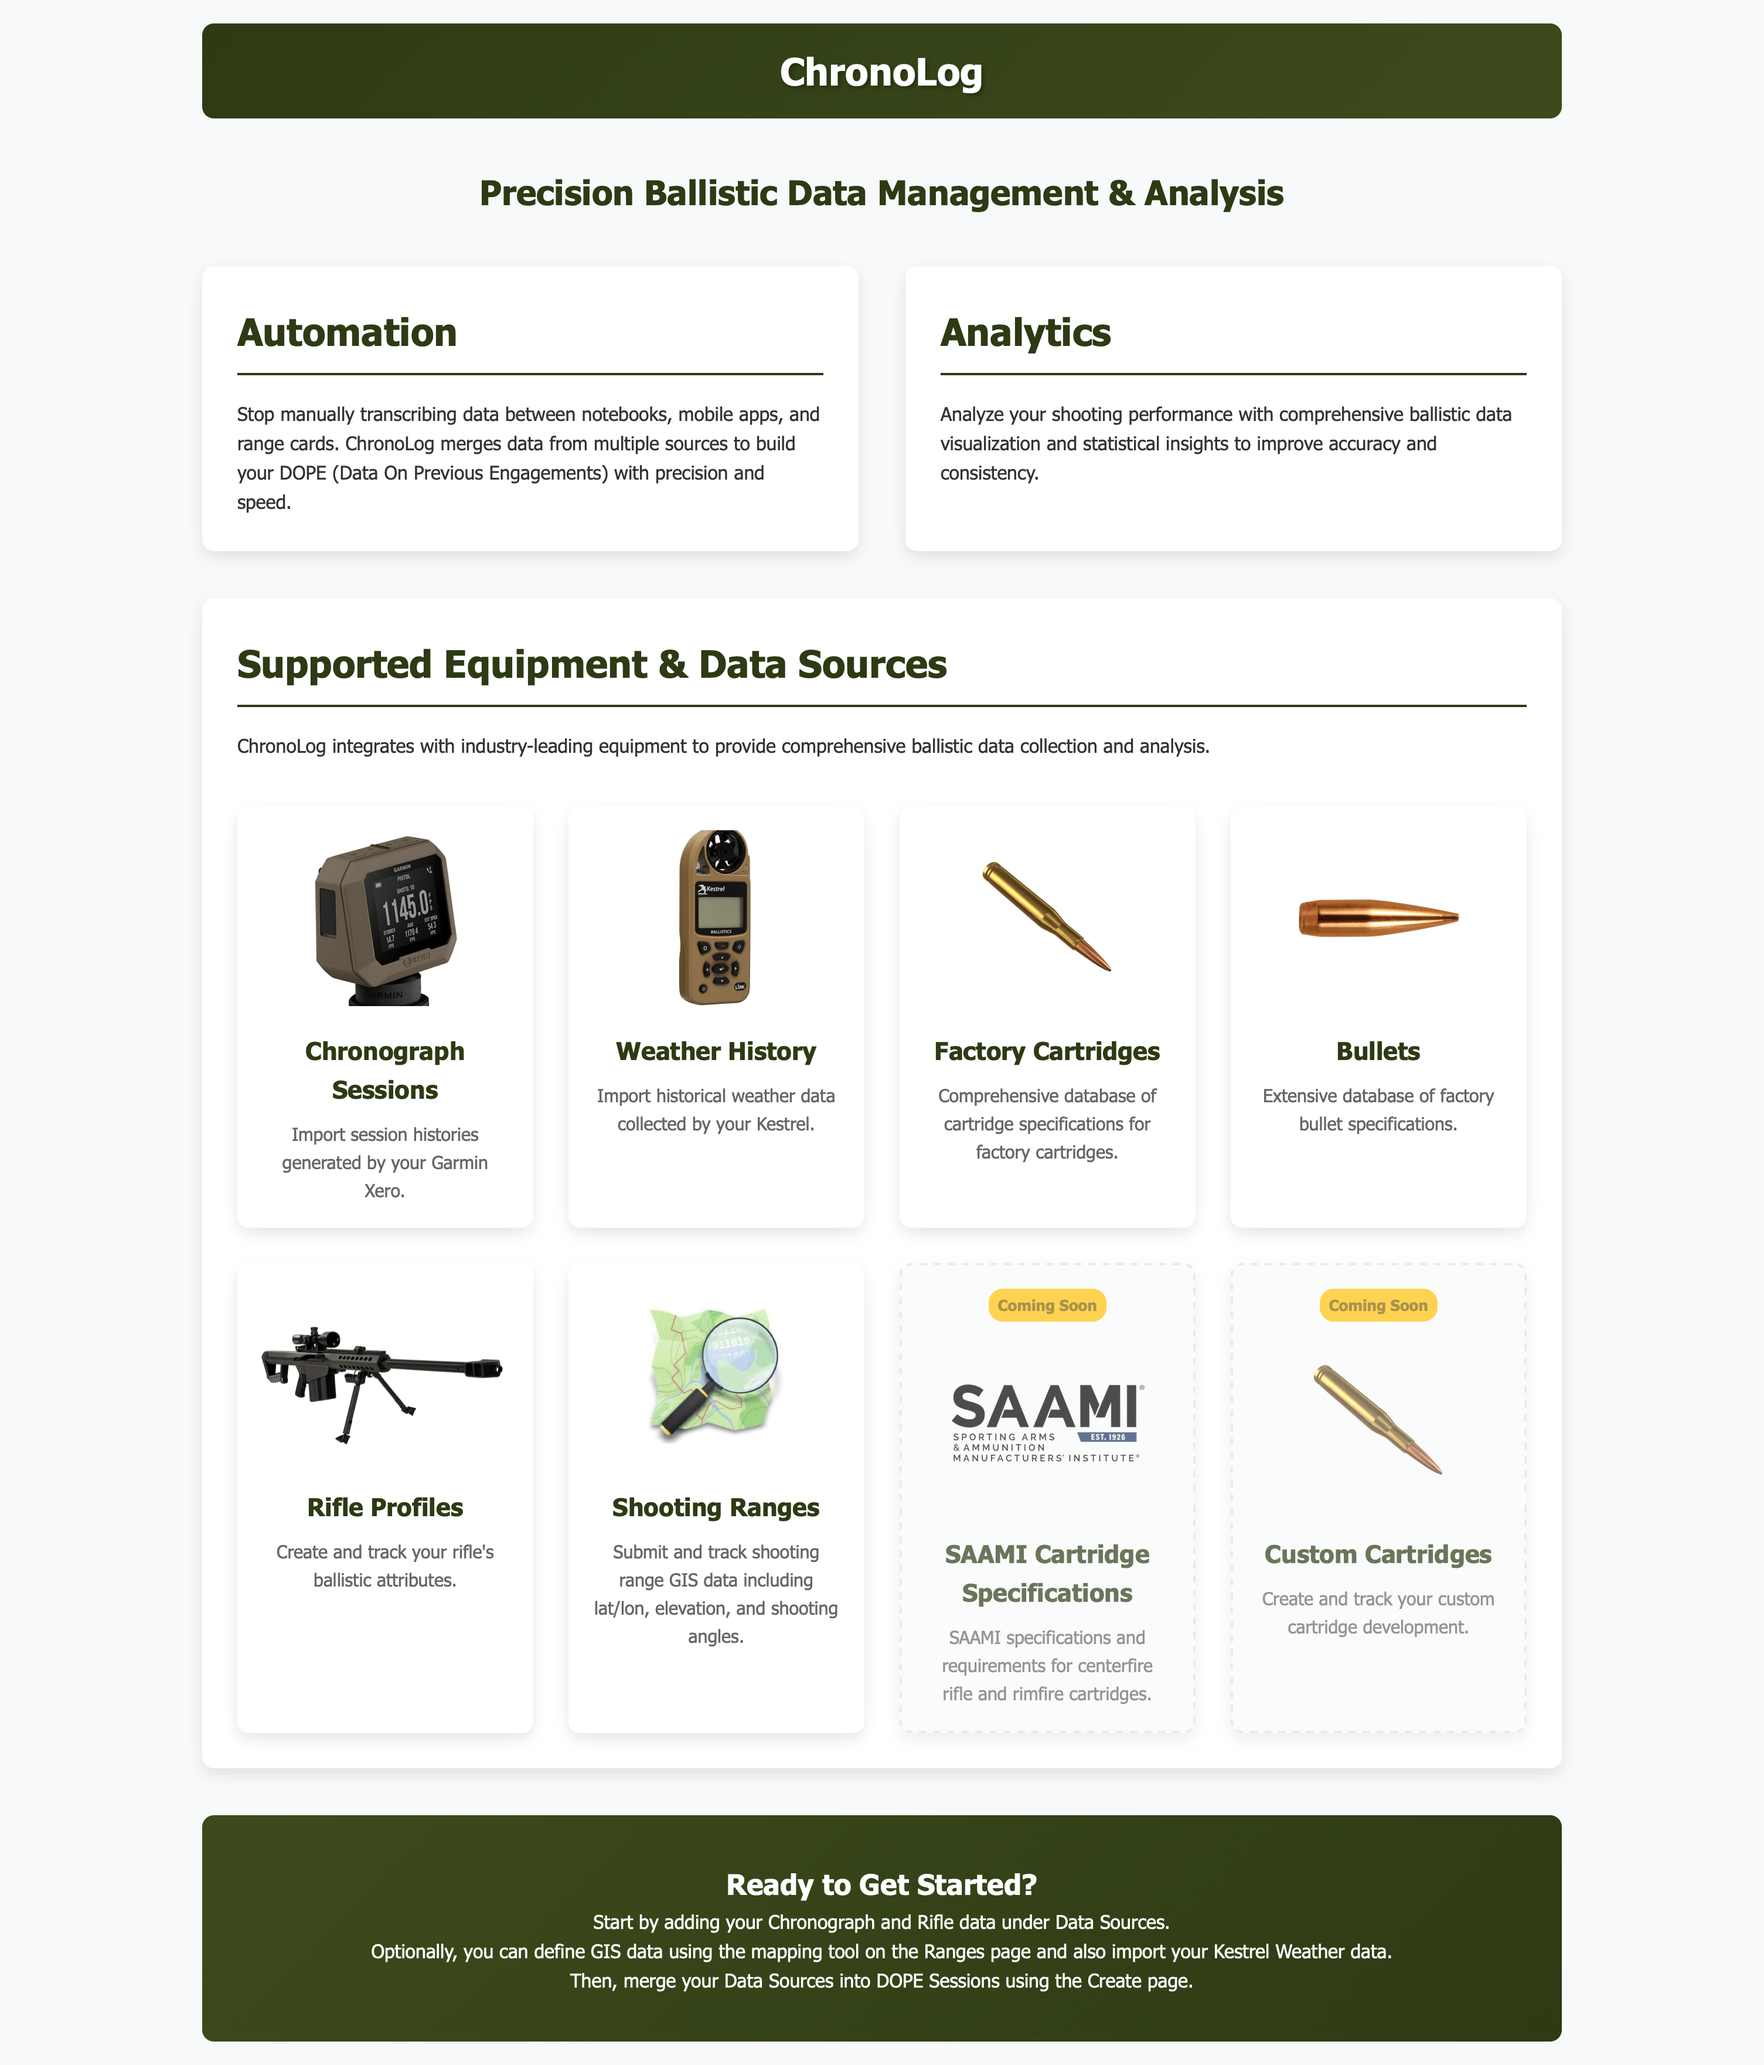
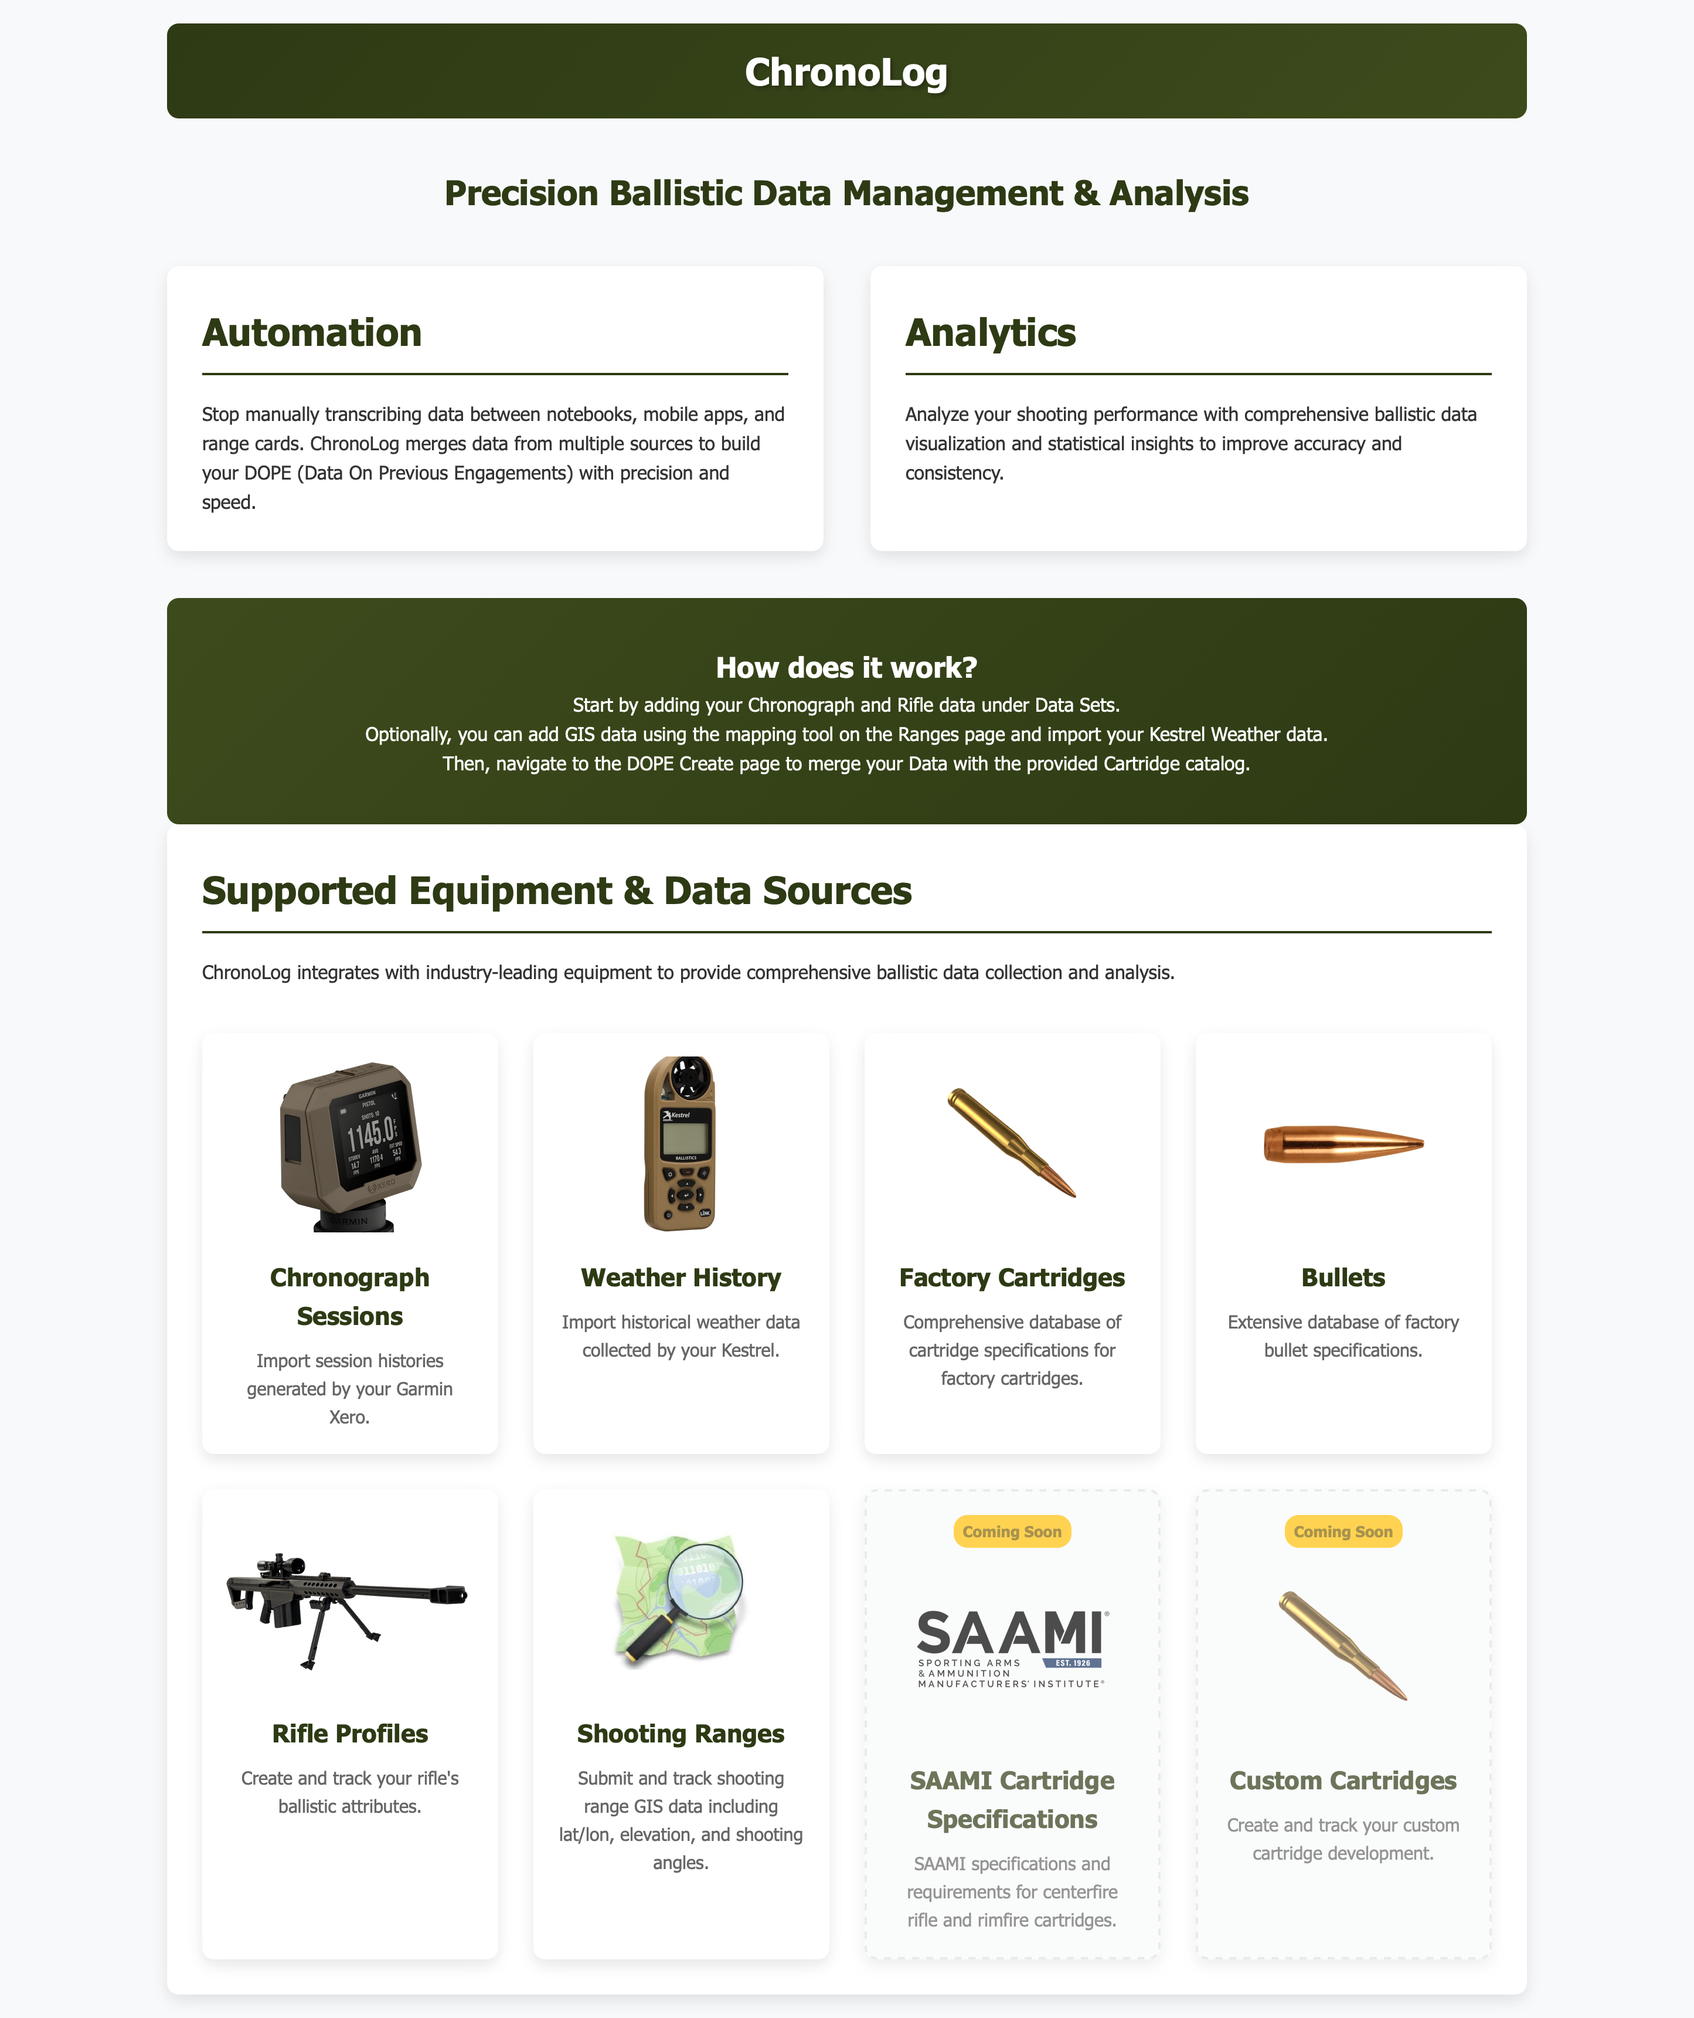
overview page

diff --git a/home/resources/getting_started.html b/home/resources/getting_started.html
@@ -219,93 +219,99 @@
     </style>
 </head>
 <body>
-    <div class="container">
-        <header>
-            <div></div> <!-- Left spacer -->
-            <h1>ChronoLog</h1>
-<!--            <a href="https://chronolog.streamlit.app" class="header-launch">Launch App</a>-->
-        </header>
-        
-        <div class="tagline-section">
-            <h2 class="tagline">Precision Ballistic Data Management & Analysis</h2>
-        </div>
-        
-        <div class="content-grid">
-            <div class="section">
-                <h2>Automation</h2>
-                <p>Stop manually transcribing data between notebooks, mobile apps, and range cards. ChronoLog merges data from multiple sources to build your DOPE (Data On Previous Engagements) with precision and speed.</p>
-            </div>
-            
-            <div class="section">
-                <h2>Analytics</h2>
-                <p>Analyze your shooting performance with comprehensive ballistic data visualization and statistical insights to improve accuracy and consistency.</p>
-            </div>
+<div class="container">
+    <header>
+        <div></div> <!-- Left spacer -->
+        <h1>ChronoLog</h1>
+        <!--            <a href="https://chronolog.streamlit.app" class="header-launch">Launch App</a>-->
+    </header>
+
+    <div class="tagline-section">
+        <h2 class="tagline">Precision Ballistic Data Management & Analysis</h2>
+    </div>
+
+    <div class="content-grid">
+        <div class="section">
+            <h2>Automation</h2>
+            <p>Stop manually transcribing data between notebooks, mobile apps, and range cards. ChronoLog merges data
+                from multiple sources to build your DOPE (Data On Previous Engagements) with precision and speed.</p>
         </div>
 
         <div class="section">
-            <h2>Supported Equipment & Data Sources</h2>
-            <p>ChronoLog integrates with industry-leading equipment to provide comprehensive ballistic data collection and analysis.</p>
-            
-            <div class="resources-grid">
-                <div class="resource-card">
-                    <img src="./garmin_xero.png" alt="Garmin Xero Chronograph">
-                    <h3>Chronograph Sessions</h3>
-                    <p>Import session histories generated by your Garmin Xero.</p>
-                </div>
-                
-                <div class="resource-card">
-                    <img src="./kestrel.png" alt="Kestrel Weather Meter">
-                    <h3>Weather History</h3>
-                    <p>Import historical weather data collected by your Kestrel.</p>
-                </div>
-
-                <div class="resource-card">
-                    <img src="./cartridge.png" alt="Factory Cartridge">
-                    <h3>Factory Cartridges</h3>
-                    <p>Comprehensive database of cartridge specifications for factory cartridges.</p>
-                </div>
-
-                <div class="resource-card">
-                    <img src="./bullets.png" alt="Bullet">
-                    <h3>Bullets</h3>
-                    <p>Extensive database of factory bullet specifications.</p>
-                </div>
-
-                <div class="resource-card">
-                    <img src="./rifle.png" alt="Rifle Configuration">
-                    <h3>Rifle Profiles</h3>
-                    <p>Create and track your rifle's ballistic attributes.</p>
-                </div>
-
-                <div class="resource-card">
-                    <img src="./gis.jpg" alt="Shooting Range">
-                    <h3>Shooting Ranges</h3>
-                    <p>Submit and track shooting range GIS data including lat/lon, elevation, and shooting angles.</p>
-                </div>
-
-                <div class="resource-card coming-soon">
-                    <div class="coming-soon-badge">Coming Soon</div>
-                    <img src="./saami.png" alt="SAAMI Cartridge Specifications">
-                    <h3>SAAMI Cartridge Specifications</h3>
-                    <p>SAAMI specifications and requirements for centerfire rifle and rimfire cartridges.</p>
-                </div>
-
-                <div class="resource-card coming-soon">
-                    <div class="coming-soon-badge">Coming Soon</div>
-                    <img src="./cartridge.png" alt="Custom Cartridge">
-                    <h3>Custom Cartridges</h3>
-                    <p>Create and track your custom cartridge development.</p>
-                </div>
-
-            </div>
-        </div>
-        
-        <div class="cta-section">
-            <h2>Ready to Get Started?</h2>
-            <p>Start by adding your Chronograph and Rifle data under Data Sources.</p>
-             <p> Optionally, you can define GIS data using the mapping tool on the Ranges page and also import your Kestrel Weather data.</p>
-            <p>Then, merge your Data Sources into DOPE Sessions using the Create page.</p>
+            <h2>Analytics</h2>
+            <p>Analyze your shooting performance with comprehensive ballistic data visualization and statistical
+                insights to improve accuracy and consistency.</p>
         </div>
     </div>
+    <div class="cta-section">
+        <h2>How does it work?</h2>
+        <p>Start by adding your Chronograph and Rifle data under Data Sets.</p>
+        <p>Optionally, you can add GIS data using the mapping tool on the Ranges page and import your Kestrel Weather
+            data.</p>
+        <p>Then, navigate to the DOPE Create page to merge your Data with the provided Cartridge catalog.</p>
+    </div>
+
+
+    <div class="section">
+        <h2>Supported Equipment & Data Sources</h2>
+        <p>ChronoLog integrates with industry-leading equipment to provide comprehensive ballistic data collection and
+            analysis.</p>
+
+        <div class="resources-grid">
+            <div class="resource-card">
+                <img src="./garmin_xero.png" alt="Garmin Xero Chronograph">
+                <h3>Chronograph Sessions</h3>
+                <p>Import session histories generated by your Garmin Xero.</p>
+            </div>
+
+            <div class="resource-card">
+                <img src="./kestrel.png" alt="Kestrel Weather Meter">
+                <h3>Weather History</h3>
+                <p>Import historical weather data collected by your Kestrel.</p>
+            </div>
+
+            <div class="resource-card">
+                <img src="./cartridge.png" alt="Factory Cartridge">
+                <h3>Factory Cartridges</h3>
+                <p>Comprehensive database of cartridge specifications for factory cartridges.</p>
+            </div>
+
+            <div class="resource-card">
+                <img src="./bullets.png" alt="Bullet">
+                <h3>Bullets</h3>
+                <p>Extensive database of factory bullet specifications.</p>
+            </div>
+
+            <div class="resource-card">
+                <img src="./rifle.png" alt="Rifle Configuration">
+                <h3>Rifle Profiles</h3>
+                <p>Create and track your rifle's ballistic attributes.</p>
+            </div>
+
+            <div class="resource-card">
+                <img src="./gis.jpg" alt="Shooting Range">
+                <h3>Shooting Ranges</h3>
+                <p>Submit and track shooting range GIS data including lat/lon, elevation, and shooting angles.</p>
+            </div>
+
+            <div class="resource-card coming-soon">
+                <div class="coming-soon-badge">Coming Soon</div>
+                <img src="./saami.png" alt="SAAMI Cartridge Specifications">
+                <h3>SAAMI Cartridge Specifications</h3>
+                <p>SAAMI specifications and requirements for centerfire rifle and rimfire cartridges.</p>
+            </div>
+
+            <div class="resource-card coming-soon">
+                <div class="coming-soon-badge">Coming Soon</div>
+                <img src="./cartridge.png" alt="Custom Cartridge">
+                <h3>Custom Cartridges</h3>
+                <p>Create and track your custom cartridge development.</p>
+            </div>
+
+        </div>
+    </div>
+
+
+</div>
 </body>
 </html>
